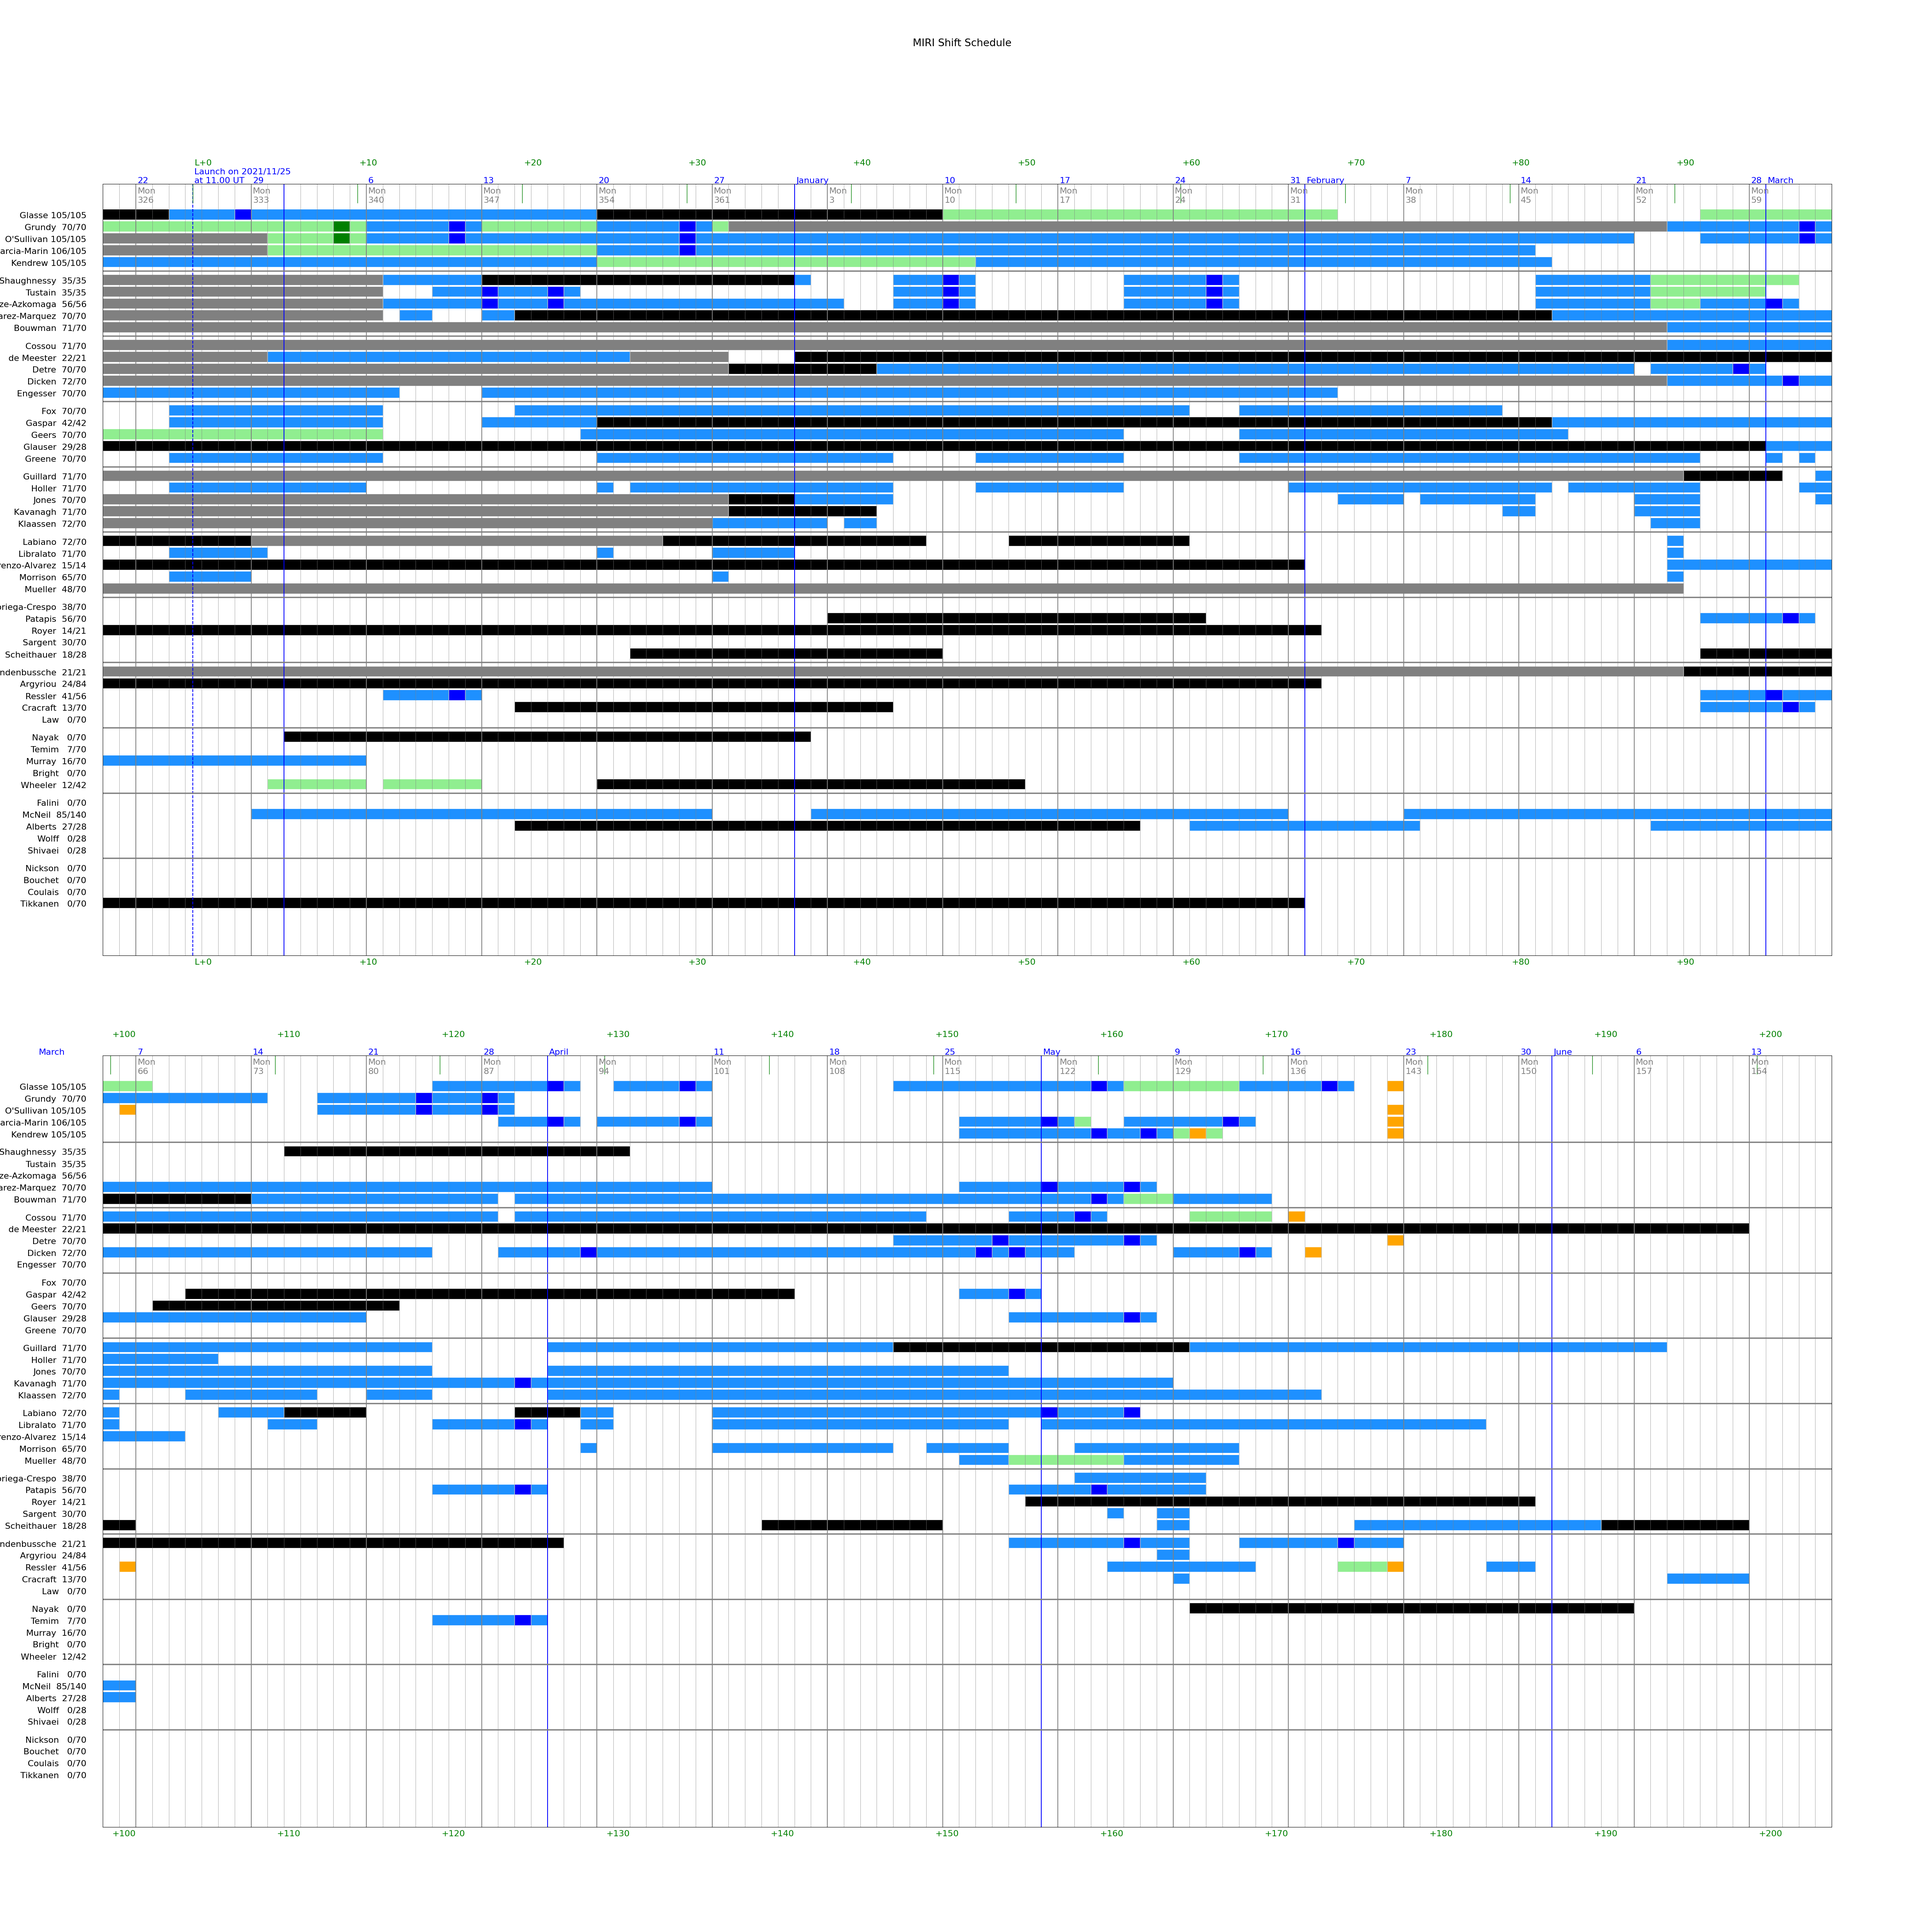
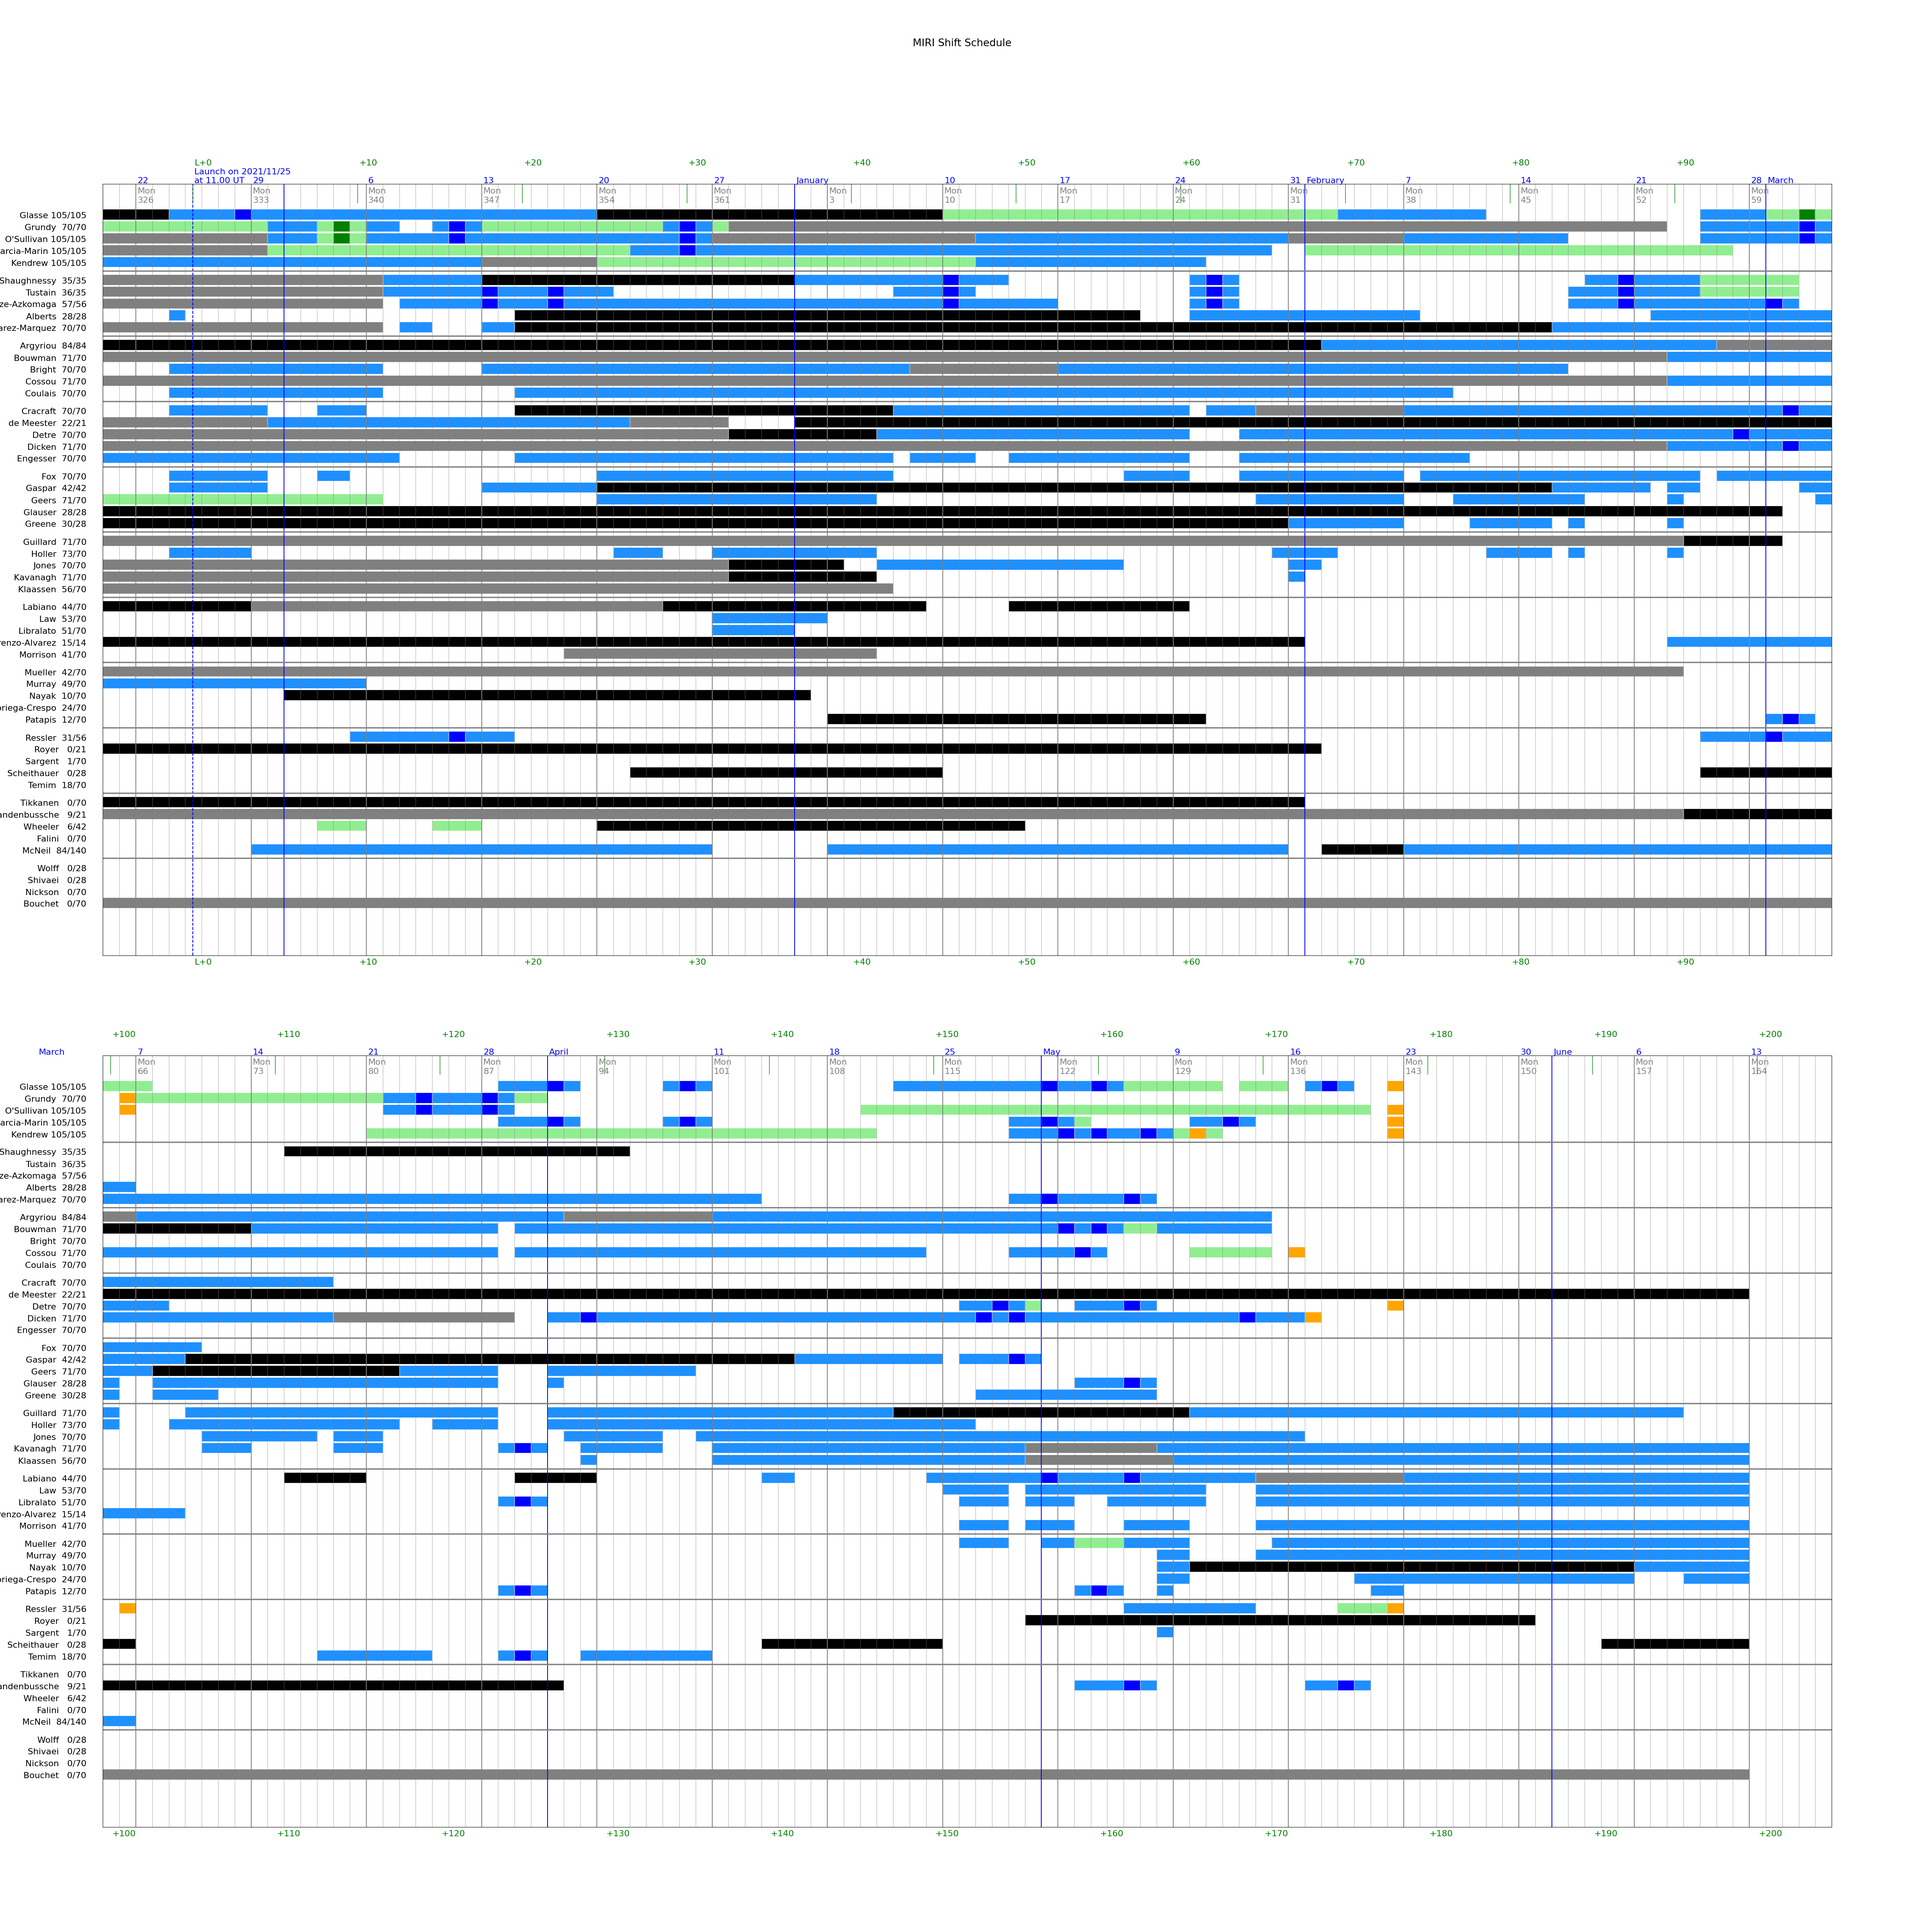
Edited staff calendars to ensure at least one lead is off console.  Also inserted mandatory breaks after ~3 weeks on console.

diff --git a/source/shift_plan.py b/source/shift_plan.py
@@ -114,15 +114,16 @@ class ShiftPlan:
                     row += 1
                 else:
                     initial, forename, surname, email, organisation = (token.strip() for token in tokens[0:5])
-                    ident = initial, forename, surname, email, organisation
-                    max_nweeks, max_nweeks_block  = (int(token.strip()) for token in tokens[5:7])
-                    blackout_days = ShiftPlan._decode_period_token(tokens[7])
-                    greyout_days = ShiftPlan._decode_period_token(tokens[8])
-                    scheduled_days = ShiftPlan._decode_period_token(tokens[9])
-                    analysis_days = ShiftPlan._decode_period_token(tokens[10])
+                    colour = tokens[5]
+                    ident = initial, forename, surname, email, organisation, colour
+                    max_nweeks, max_nweeks_block  = (int(token.strip()) for token in tokens[6:8])
+                    blackout_days = ShiftPlan._decode_period_token(tokens[8])
+                    greyout_days = ShiftPlan._decode_period_token(tokens[9])
+                    scheduled_days = ShiftPlan._decode_period_token(tokens[10])
+                    analysis_days = ShiftPlan._decode_period_token(tokens[11])
                     availability = is_reserve, max_nweeks, max_nweeks_block, blackout_days, greyout_days, scheduled_days, analysis_days
                     person = Person(ident, availability)
-                    for token in tokens[11:]:
+                    for token in tokens[12:]:
                         token = token.strip()
                         if len(token) > 2:
                             role, idt_id = token.split(':')
@@ -136,11 +137,11 @@ class ShiftPlan:
                             else:
                                 person.sme_tasks.append((task, role))
                     staff.append(person)
-        n_staff = len(staff)
-        colours = Tools.get_colour_list(n_staff)
-        for i, person in enumerate(staff):
-            colour = colours[i]
-            person.bar_colour = colour
+#        n_staff = len(staff)
+#        colours = Tools.get_colour_list(n_staff)
+#        for i, person in enumerate(staff):
+#            colour = colours[i]
+#            person.bar_colour = colour
         return staff
 
     @staticmethod
@@ -291,18 +292,6 @@ class ShiftPlan:
         return rota
 
     @staticmethod
-    def get_allocated(rota):
-        """ Get the list of unique persons from the rota array who can be
-        allocated rota days. """
-        person_list = []
-        rota_flat = rota.flatten()
-        for person in rota_flat:
-            if person != None:
-                if person not in person_list:
-                    person_list.append(person)
-        return person_list
-
-    @staticmethod
     def _plot_calendar_grid(n_panes, xrange, yrange, **kwargs):
         from plot_utils import Plot
         import calendar
@@ -314,7 +303,6 @@ class ShiftPlan:
         fig, axs = plot.set_plot_area('MIRI Shift Schedule',
                                       ncols=1, nrows=n_panes, fontsize=16,
                                       plotpad=plotpad)
-
         y_pitch = (0.008, 0.012, 0.016)[n_panes-1] * yrange
         xorg = ShiftPlan.start_day
         xlm = ShiftPlan.launchdoy_last_monday - ShiftPlan.launchdoy
@@ -414,8 +402,12 @@ class ShiftPlan:
                     x = day + xorg
                     on_today = rota[slot, day]
                     if on_today != on_yesterday:    # Change of shift for this slot
+                        if on_yesterday != None:
+                            if on_yesterday.initial == 'ALV':
+                                nob = 1
                         if on_yesterday != free:    # Close out last person
                             bar_colour = on_yesterday.bar_colour
+                            text_colour = on_yesterday.fg_colour
                             if x >= xmin:
                                 xoff = x if x < xmax else xmax
                                 xon = xon if x > xmin else xmin
@@ -425,8 +417,8 @@ class ShiftPlan:
                                     bar = Rectangle((xon, ybar), xw, 0.9 * ybarheight, **bar_args)
                                     ax.add_patch(bar)
                                     bartext = on_yesterday.surname
-                                    is_dark = Tools.is_dark(bar_colour)
-                                    text_colour = 'white' if is_dark else 'black'
+#                                    text_colour = 'white' if is_dark else 'black'
+#                                    text_colour = 'black'
                                     ax.text(xon, ybar, bartext,
                                             ha='left', va='bottom', color=text_colour)
                                     sme_tasks = on_yesterday.sme_tasks     # Plot SME tasks on timeline
@@ -511,9 +503,9 @@ class ShiftPlan:
                 xon = xmin
                 for day, role_today in enumerate(person.timetable):
                     x = day + xorg
-                    if role_today != role_yesterday or x == xmax:        # Draw the 'old' bar and start a new one
+                    if role_today != role_yesterday or day == xmax:        # Draw the 'old' bar and start a new one
                         if x >= xmin:
-                            xoff = x if x < xmax else xmax
+                            xoff = x if x <= xmax else xmax
                             xw = xoff - xon
                             if xw > 0 and role_yesterday != person.role_free:
                                 icol = i % n_colours            # Default bar colour
@@ -554,6 +546,7 @@ class ShiftPlan:
         :return:  Array of day indices in rota objects
         """
         days = []
+        token = token.strip()
         if token != '':
             tokens = token.split(';')
             for t in tokens:

diff --git a/source/person.py b/source/person.py
@@ -5,9 +5,9 @@ from shift_plan import ShiftPlan
 
 class Person:
 
-    arrival_buffer = 3      # Arrive in Baltimore at least 3 days before task
+    arrival_buffer = 1      # Arrive in Baltimore at least 3 days before task
     departure_buffer = 1    # Leave at least 1 day after
-    role_console = 'm'   # Supporting one of the three shifts on this day
+    role_console = 'm'      # Supporting one of the three shifts on this day
     role_sme_console = 'M'
     role_free = '.'         # Not schedulable
     blackout = 'X'          # Person is not available in Baltimore
@@ -17,9 +17,11 @@ class Person:
     role_kdp = 'K'          # Supporting a KDP on this day
 
     def __init__(self, idents, availabilty):
-        self.initial, self.forename, self.surname, self.email, self.organisation = idents
+        self.initial, self.forename, self.surname, self.email, self.organisation, self.bar_colour = idents
         self.is_reserve, max_nweeks, max_nweeks_block, self.blackout_days, self.greyout_days, schedule_days, analysis_days = availabilty
         self.fg_colour = 'black'
+        if self.organisation in ['ESA', 'STScI', 'GSFC']:
+            self.fg_colour = 'blue'
         self.max_allocation = 7 * max_nweeks
         self.max_contiguous_allocation = 7 * max_nweeks_block
         self.contiguously_allocated = 0
@@ -75,13 +77,21 @@ class Person:
         return n_allocated
 
     def _find_free_slot(self, rota, col, n_slots):
-        """ Find the free row (slot) in a column of the rota.
+        """ Find the the first free row (slot) in a column (day) of the rota.  Returns None if n_slots are
+        already filled.
         """
-        for slot in range(0, n_slots):
-            person = rota[slot, col]
-            if person == None or person == self:    # Free or this person already scheduled
+        free_slots = []
+        count_filled = 0
+        for slot, person in enumerate(rota[:, col]):
+            if person == self:
                 return slot
-        return None                             # Free row not found
+            if person == None:
+                free_slots.append(slot)
+            else:
+                count_filled += 1
+        if count_filled >= n_slots:
+            return None
+        return free_slots[0]
 
     def schedule_tasks(self, rota, task_type):
         """ Allocate this person to support all tasks in their sme list of a specific type
@@ -199,6 +209,7 @@ class Person:
         daily_slots = ShiftPlan.daily_slot_quota
         n_rows, n_days = rota.shape
         start_col, end_col, car_col = 0, n_days, -1                     # Default - schedule all of commissioning
+
         for col in range(start_col, end_col):
             n_slots = daily_slots[col]
             current_role = self.timetable[col]
@@ -207,10 +218,12 @@ class Person:
                 n_allocated = self._get_allocated()                     # Allocated full allowance?
                 ok_total = n_allocated < self.max_allocation
                 if ok_total:
-                    row = self._find_free_slot(rota, col, n_slots)    # Find free slot in rota
+                    row = self._find_free_slot(rota, col, n_slots)      # Find free slot in rota
                     if row is not None:
                         rota[row, col] = self
                         self.timetable[col] = Person.role_console
+#                        if row == 8 and col == 150:
+#                            print('Assigned {:s} to row, col = {:d},{:d}'.format(self.surname, row, col))
         return rota
 
     @staticmethod

diff --git a/source/timeliner.py b/source/timeliner.py
@@ -59,14 +59,14 @@ rota = ShiftPlan.allocate_prescheduled(rota)
 rota = ShiftPlan.allocate_tasks(rota, 'CAP')
 rota = ShiftPlan.allocate_tasks(rota, 'KDP')
 rota = ShiftPlan.allocate_tasks(rota, 'CAR')
-#ShiftPlan.plot_staff_schedules(name='s3.png')
-#ShiftPlan.plot_rota(rota, 'r3')
+ShiftPlan.plot_staff_schedules(name='s3.png')
+ShiftPlan.plot_rota(rota, 'r3')
 rota = ShiftPlan.allocate_remaining(rota)
-#ShiftPlan.plot_staff_schedules(name='s4.png')
-#ShiftPlan.plot_rota(rota, 'r4')
+ShiftPlan.plot_staff_schedules(name='s4.png')
+ShiftPlan.plot_rota(rota, 'r4')
 rota = ShiftPlan.tidy_rota(rota)
-#ShiftPlan.plot_staff_schedules(name='s5.png')
-#ShiftPlan.plot_rota(rota, 'r5')
+ShiftPlan.plot_staff_schedules(name='s5.png')
+ShiftPlan.plot_rota(rota, 'r5')
 rota = ShiftPlan.remove_singles(rota)
 ShiftPlan.test_rota(rota)
 ShiftPlan.plot_staff_schedules(name='staff_schedule.png')
